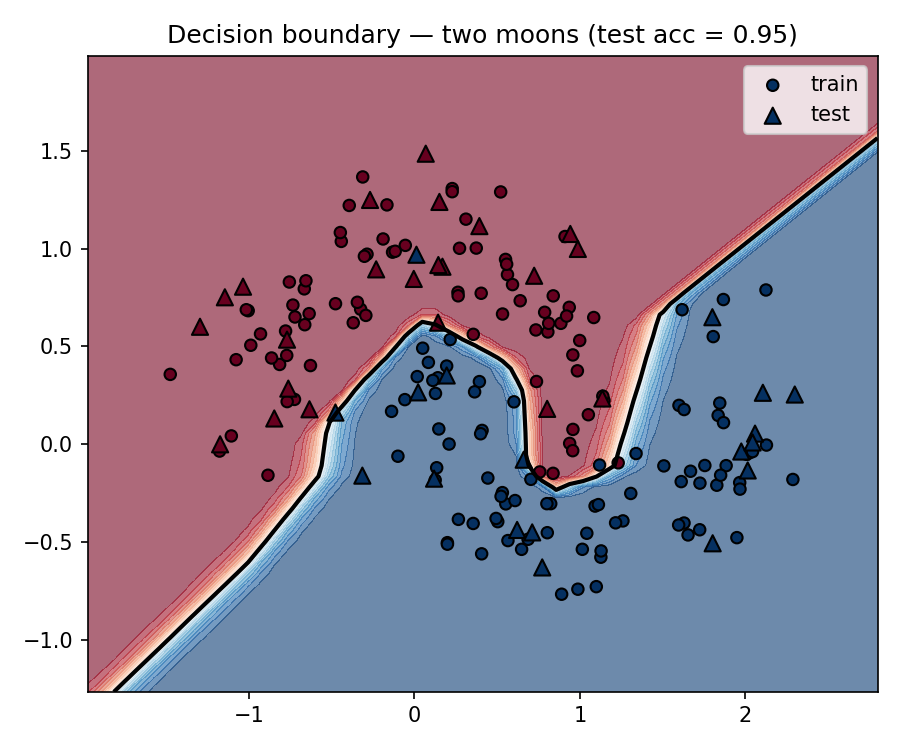
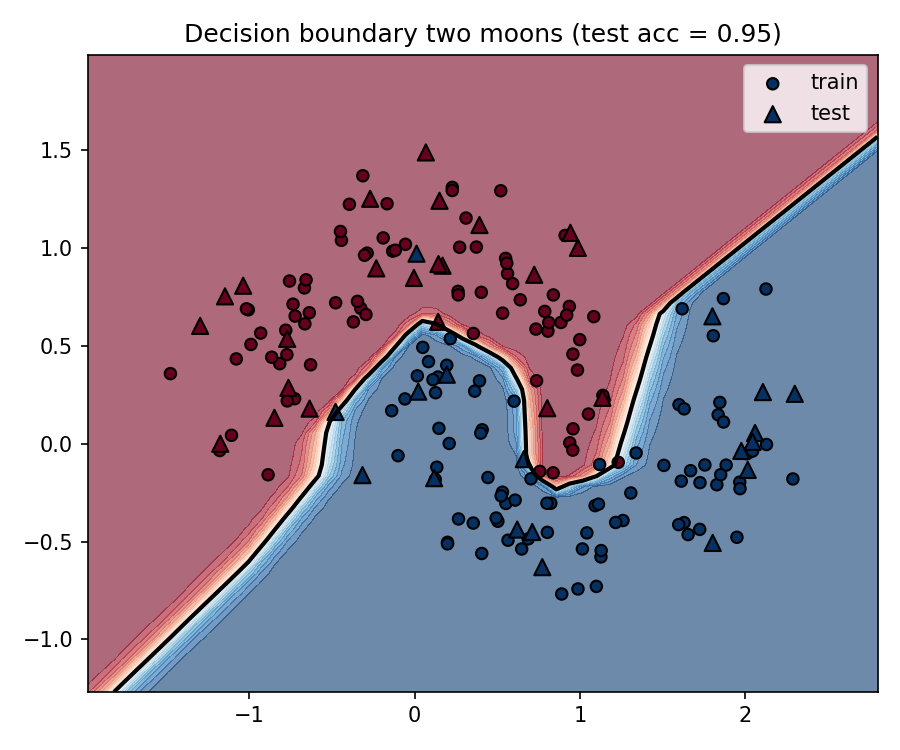
rerun and verify all examples, add iris softmax CCE plot

diff --git a/examples/classification_iris.py b/examples/classification_iris.py
@@ -1,8 +1,8 @@
 """
-classification_iris.py — 3-class classification on the Iris dataset.
+3-class classification on the Iris dataset.
 
 What this demonstrates:
-  - MLPClassifier with ReLU hidden layers (He init)
+  - MLPClassifier with ReLU hidden layers
   - Categorical cross-entropy loss (softmax applied inside the loss)
   - Adam optimizer
   - Decision regions visualization for the first two features
@@ -29,7 +29,7 @@ from microgradplus.training import fit, predict_classes
 random.seed(42)
 np.random.seed(42)
 
-# ── Data ──────────────────────────────────────────────────────────────────────
+# ----------- Data ----------- 
 iris = load_iris()
 X_raw, y_raw = iris.data[:, :2], iris.target   # use first 2 features for 2-D plot
 
@@ -41,12 +41,12 @@ X_train, X_test, y_train, y_test = train_test_split(
     X_scaled, y_list, test_size=0.2, random_state=42, stratify=y_list
 )
 
-# ── Model ─────────────────────────────────────────────────────────────────────
+# ----------- Model -----------
 model = MLPClassifier(nin=2, hidden=[16, 16], n_classes=3,
                       activation="relu", init="he")
 opt = Adam(model.parameters(), lr=0.02)
 
-# ── Training ──────────────────────────────────────────────────────────────────
+# ----------- Training -----------
 history = fit(
     model, opt, categorical_cross_entropy,
     X_train, y_train,
@@ -54,7 +54,7 @@ history = fit(
     log_every=50, multiclass=True,
 )
 
-# ── Accuracy ──────────────────────────────────────────────────────────────────
+# ----------- Accuracy -----------
 y_pred_train = predict_classes(model, X_train)
 y_pred_test  = predict_classes(model, X_test)
 
@@ -62,14 +62,14 @@ train_acc = sum(p == t for p, t in zip(y_pred_train, y_train)) / len(y_train)
 test_acc  = sum(p == t for p, t in zip(y_pred_test,  y_test))  / len(y_test)
 print(f"\nTrain accuracy: {train_acc:.3f}   Test accuracy: {test_acc:.3f}")
 
-# ── Plots ─────────────────────────────────────────────────────────────────────
+# ----------- Plots -----------
 fig, axes = plt.subplots(1, 2, figsize=(13, 5))
 
 # Loss curve
 axes[0].plot(history, color="#2563EB", linewidth=1.5)
 axes[0].set_xlabel("Epoch")
 axes[0].set_ylabel("Mean CCE Loss")
-axes[0].set_title("Training Loss — Iris 3-class")
+axes[0].set_title("Training Loss of Iris 3-class")
 axes[0].grid(True, alpha=0.3)
 
 # Decision boundary
@@ -105,4 +105,4 @@ axes[1].grid(True, alpha=0.2)
 plt.tight_layout()
 outpath = "examples/iris_softmax_cce.png"
 plt.savefig(outpath, dpi=150)
-print(f"Saved → {outpath}")
+print(f"Saved => {outpath}")

diff --git a/examples/classification_moons.py b/examples/classification_moons.py
@@ -1,14 +1,12 @@
 """
-examples/classification_moons.py
-
 Binary classification on the classic "two moons" dataset.
 
 This demonstrates the full micrograd+ pipeline on a non-trivial,
-non-linearly-separable problem: an MLP with ReLU hidden units, He
+non-linearly-separable problem: an MLP with ReLU hidden units,
 initialization, a sigmoid output, BCE loss, and Adam.
 
 scikit-learn and matplotlib are used ONLY for data generation and
-plotting — every gradient and parameter update is computed by
+plotting every gradient and parameter update is computed by
 microgradplus's pure-Python engine.
 """
 
@@ -71,18 +69,18 @@ def main():
     accuracy = np.mean(np.array(test_pred_labels) == y_test)
     print(f"\ntest accuracy: {accuracy:.3f}")
 
-    # ---- Plot 1: training loss curve ----
+    # ---- Plot 1 training loss curve ----
     fig, ax = plt.subplots(figsize=(6, 4))
     ax.plot(history)
     ax.set_xlabel("epoch")
     ax.set_ylabel("BCE loss")
-    ax.set_title("Training loss — two moons")
+    ax.set_title("Training loss two moons")
     ax.grid(alpha=0.3)
     fig.tight_layout()
     fig.savefig("examples/moons_loss_curve.png", dpi=150)
     plt.close(fig)
 
-    # ---- Plot 2: decision boundary ----
+    # ---- Plot 2 decision boundary ----
     fig, ax = plt.subplots(figsize=(6, 5))
 
     x_min, x_max = X[:, 0].min() - 0.5, X[:, 0].max() + 0.5
@@ -104,7 +102,7 @@ def main():
         X_test[:, 0], X_test[:, 1], c=y_test, cmap="RdBu",
         edgecolors="k", s=60, marker="^", label="test"
     )
-    ax.set_title(f"Decision boundary — two moons (test acc = {accuracy:.2f})")
+    ax.set_title(f"Decision boundary two moons (test acc = {accuracy:.2f})")
     ax.legend()
     fig.tight_layout()
     fig.savefig("examples/moons_decision_boundary.png", dpi=150)

diff --git a/examples/regression_sgd_vs_adam.py b/examples/regression_sgd_vs_adam.py
@@ -1,6 +1,4 @@
 """
-examples/regression_sgd_vs_adam.py
-
 A small 1D regression problem: fit y = sin(3x) + small noise.
 
 Compares plain SGD vs Adam, both training the same MLP architecture from
@@ -59,7 +57,7 @@ def main():
     history_adam = fit(model_adam, opt_adam, mse_loss, X, y,
                         epochs=150, batch_size=None, log_every=50)
 
-    # ---- Plot 1: loss curves ----
+    # ---- Plot 1 loss curves ----
     fig, ax = plt.subplots(figsize=(6, 4))
     ax.plot(history_sgd, label="SGD (lr=0.05)")
     ax.plot(history_adam, label="Adam (lr=0.02)")
@@ -73,7 +71,7 @@ def main():
     fig.savefig("examples/regression_loss_curves.png", dpi=150)
     plt.close(fig)
 
-    # ---- Plot 2: fitted functions ----
+    # ---- Plot 2 fitted functions ----
     xs_dense = np.linspace(-2, 2, 200)
     X_dense = [[float(x)] for x in xs_dense]
     preds_sgd = predict(model_sgd, X_dense)
